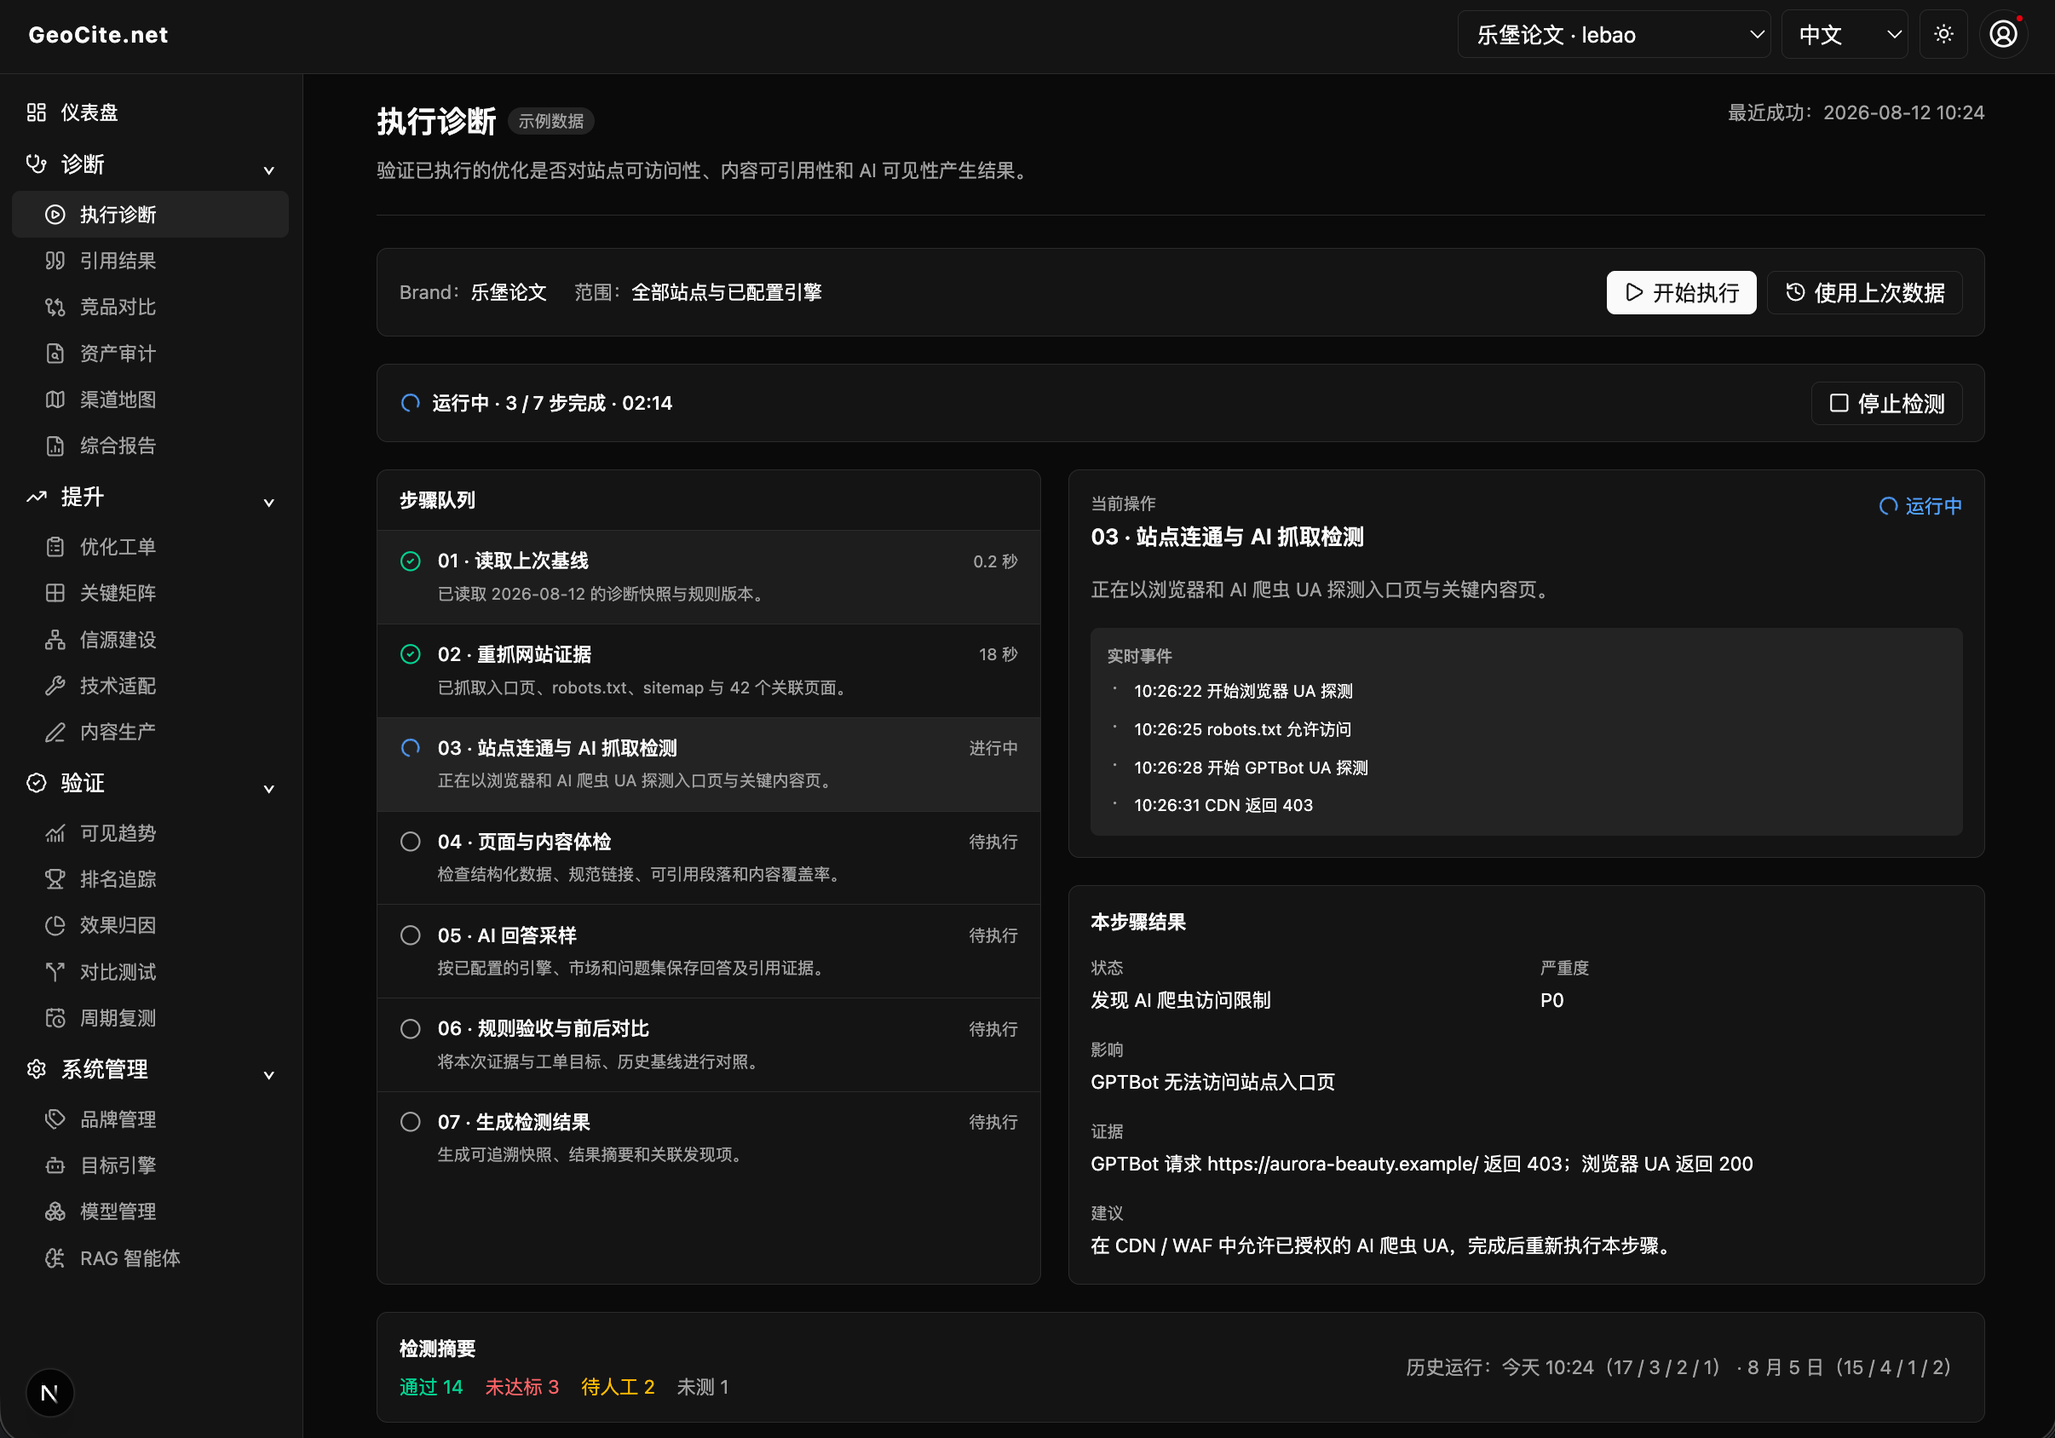
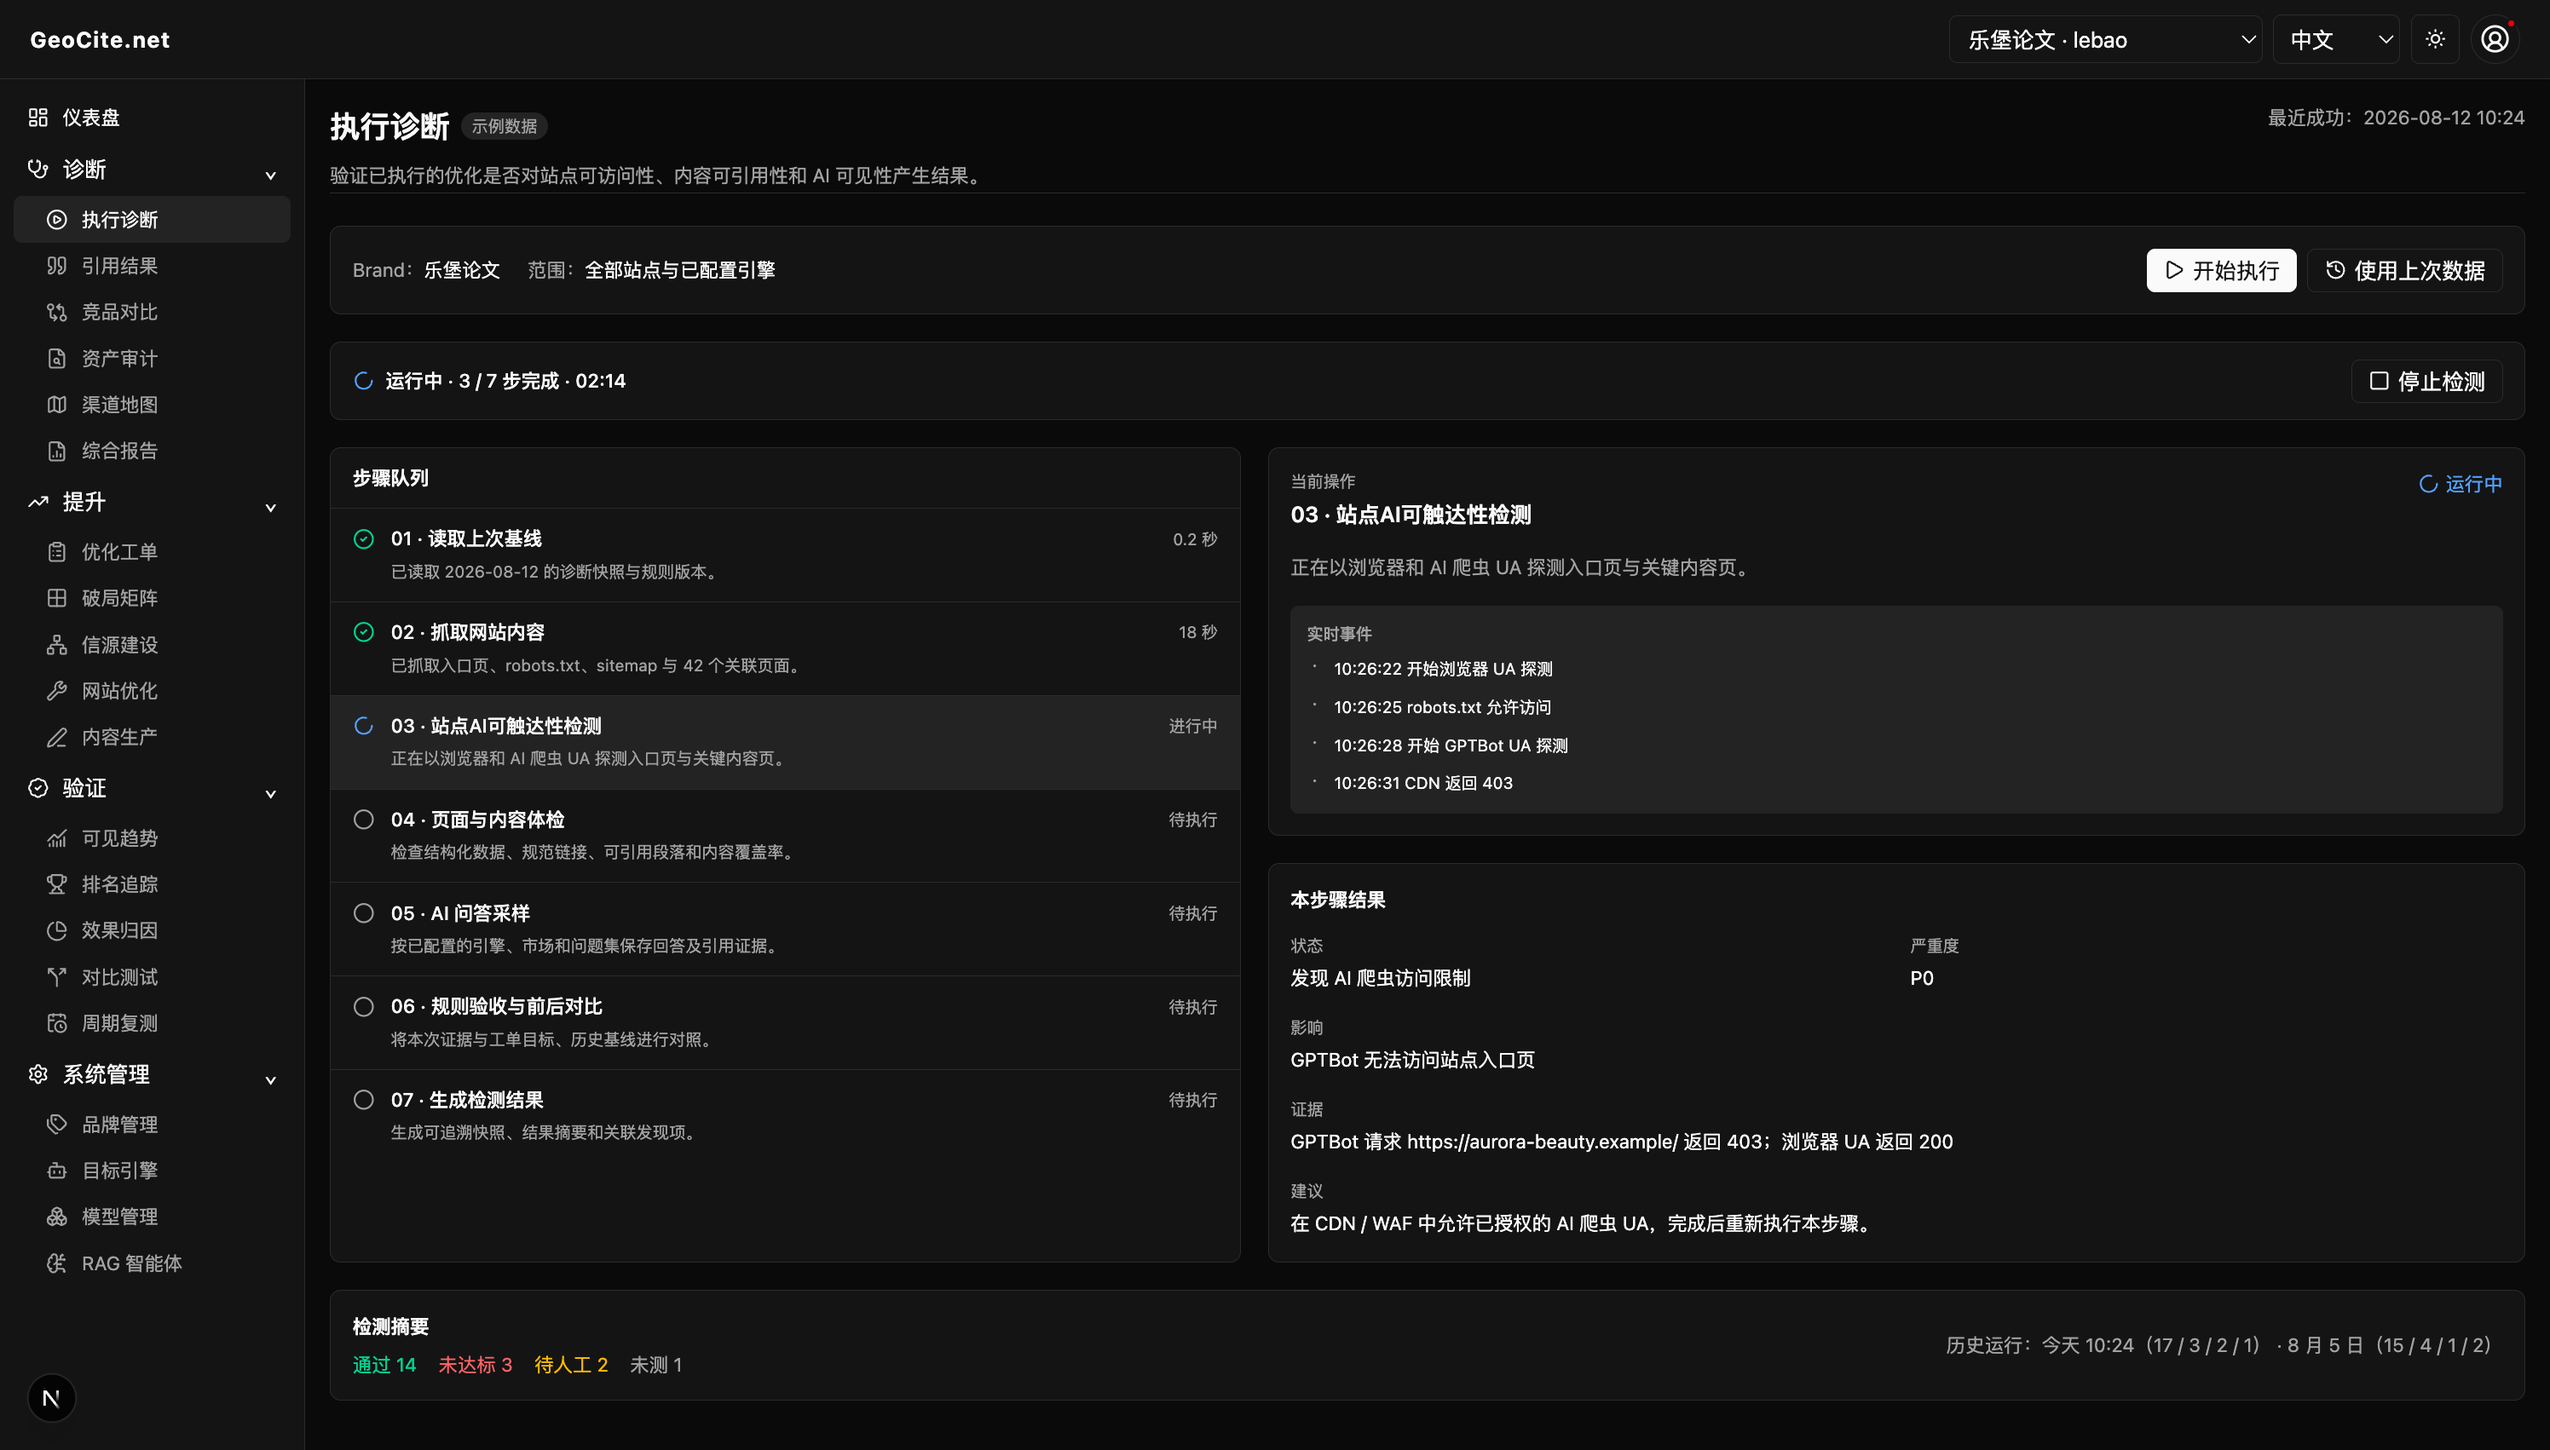
init

diff --git a/ui/src/components/diagnosis/execution-diagnosis-page.tsx b/ui/src/components/diagnosis/execution-diagnosis-page.tsx
@@ -35,8 +35,8 @@ export function ExecutionDiagnosisPage(): React.JSX.Element {
   const stopRun = () => { setRunning(false); setSteps((current) => current.map((step) => step.status === 'running' ? {...step, status: 'cancelled', duration: t('stopped'), detail: t('stoppedDetail')} : step)); };
   const usePreviousSnapshot = () => { setRunning(false); setSelectedId(7); setSteps((current) => current.map((step) => step.status === 'pending' || step.status === 'running' ? {...step, status: 'succeeded', duration: t('fromSnapshot'), detail: t('snapshotDetail')} : step)); };
 
-  return <section className="mx-auto max-w-[1180px] pb-8">
-    <header className="mb-6 flex flex-col gap-4 border-b border-[var(--border)] pb-5 lg:flex-row lg:items-start lg:justify-between"><div><div className="mb-2 flex items-center gap-2"><h1 className="text-[22px] font-semibold">{t('title')}</h1><span className="rounded-full bg-[var(--muted)] px-2 py-0.5 text-xs text-[var(--muted-foreground)]">{t('sampleData')}</span></div><p className="max-w-2xl text-sm leading-6 text-[var(--muted-foreground)]">{t('description')}</p></div><div className="shrink-0 text-sm text-[var(--muted-foreground)]">{t('lastSuccess')}</div></header>
+  return <section className="pb-8">
+    <header className="mb-6 flex flex-col gap-4 border-b border-[var(--border)] lg:flex-row lg:items-start lg:justify-between"><div><div className="mb-2 flex items-center gap-2"><h1 className="text-[22px] font-semibold">{t('title')}</h1><span className="rounded-full bg-[var(--muted)] px-2 py-0.5 text-xs text-[var(--muted-foreground)]">{t('sampleData')}</span></div><p className="text-sm leading-6 text-[var(--muted-foreground)]">{t('description')}</p></div><div className="shrink-0 text-sm text-[var(--muted-foreground)]">{t('lastSuccess')}</div></header>
     <div className="mb-5 flex flex-col gap-3 rounded-lg border border-[var(--border)] bg-[var(--card)] p-4 sm:flex-row sm:items-center sm:justify-between"><div className="flex flex-wrap items-center gap-x-5 gap-y-2 text-sm"><span><span className="text-[var(--muted-foreground)]">{t('brandLabel')}</span>{t('brand')}</span><span><span className="text-[var(--muted-foreground)]">{t('scopeLabel')}</span>{t('scope')}</span></div><div className="flex flex-wrap gap-2"><Button size="sm" onClick={startRun}><Icon icon="lucide:play" aria-hidden="true" />{t('start')}</Button><Button size="sm" variant="outline" onClick={usePreviousSnapshot}><Icon icon="lucide:history" aria-hidden="true" />{t('usePrevious')}</Button></div></div>
     <div className="mb-5 flex flex-col gap-3 rounded-lg border border-[var(--border)] bg-[var(--card)] px-4 py-3 sm:flex-row sm:items-center sm:justify-between"><div className="flex items-center gap-2 text-sm"><Icon icon={running ? 'lucide:loader-circle' : 'lucide:circle-check'} className={`size-4 ${running ? 'animate-spin text-blue-600 dark:text-blue-400' : 'text-emerald-600 dark:text-emerald-400'}`} aria-hidden="true" /><span className="font-medium">{running ? t('runProgress', {completed: completedCount}) : t('stoppedRun')}</span></div>{running && <Button size="sm" variant="outline" onClick={stopRun}><Icon icon="lucide:square" aria-hidden="true" />{t('stop')}</Button>}</div>
     <div className="grid gap-5 lg:grid-cols-[minmax(0,0.42fr)_minmax(0,0.58fr)]"><div className="overflow-hidden rounded-lg border border-[var(--border)] bg-[var(--card)]"><div className="border-b border-[var(--border)] px-4 py-3"><h2 className="text-sm font-semibold">{t('stepQueue')}</h2></div><ol className="divide-y divide-[var(--border)]">{steps.map((step) => { const meta = statusMeta[step.status]; const selected = step.id === selectedId; return <li key={step.id}><button type="button" onClick={() => setSelectedId(step.id)} className={`flex w-full items-start gap-3 px-4 py-3 text-left transition-colors ${selected ? 'bg-[var(--muted)]' : 'hover:bg-[var(--muted)]/60'}`}><Icon className={`mt-0.5 size-4 shrink-0 ${meta.className} ${step.status === 'running' ? 'animate-spin' : ''}`} icon={meta.icon} aria-hidden="true" /><span className="min-w-0 flex-1"><span className="flex items-center justify-between gap-3"><span className="text-sm font-medium">{String(step.id).padStart(2, '0')} · {step.title}</span><span className="shrink-0 text-xs text-[var(--muted-foreground)]">{step.duration}</span></span><span className="mt-1 block text-xs leading-5 text-[var(--muted-foreground)]">{step.detail}</span></span></button></li>; })}</ol></div>

diff --git a/ui/src/components/app-shell.tsx b/ui/src/components/app-shell.tsx
@@ -25,7 +25,7 @@ export function AppShell({ children }: { children: ReactNode }) {
   useEffect(() => { fetch(`${api}/brands`).then((r) => r.ok ? r.json() : Promise.reject()).then((x) => setBrands(x.items ?? [])).catch(() => setBrands([])); }, []);
   const selected = brands.find((x) => x.isDefault)?.id ?? '';
   const select = async (id: number) => { const response = await fetch(`${api}/brands/${id}/default`, { method: 'PATCH' }); if (response.ok) setBrands(brands.map((x) => ({ ...x, isDefault: x.id === id }))); };
-  return <div className="grid h-screen grid-rows-[auto_minmax(0,1fr)] overflow-hidden bg-[var(--background)] text-[var(--foreground)]"><header className="flex h-[58px] items-center justify-between border-b border-[var(--border)] bg-[var(--card)] px-[22px] shadow-sm"><Link href="/dashboard" className="font-bold tracking-[.06em]">{t('appName')}</Link><div className="flex items-center gap-2"><select aria-label={t('brandLabel')} className="min-w-[230px] rounded-md border border-[var(--border)] bg-[var(--card)] px-2.5 py-[7px] text-[var(--foreground)]" value={selected} onChange={(e) => void select(Number(e.target.value))}><option value="">{brands.length ? t('chooseBrand') : t('noBrands')}</option>{brands.map((brand) => <option key={brand.id} value={brand.id}>{brand.name} · {brand.code}</option>)}</select><select aria-label={t('language')} className="h-9 rounded-md border border-[var(--border)] bg-[var(--card)] px-2 text-sm" value={locale} onChange={(event) => router.replace(pathname, {locale: event.target.value as typeof routing.locales[number]})}><option value="zh">{t('chinese')}</option><option value="en">{t('english')}</option></select><ThemeToggle /><UserMenu /></div></header><div className="grid min-h-0 grid-cols-[224px_minmax(0,1fr)] overflow-hidden"><aside className="scroll-area scrollbar-hide min-h-0 overflow-y-auto border-r border-[var(--border)] bg-[var(--card)] p-2.5">{navigationTree.map((node) => <NavigationNodeView key={node.key} node={node} pathname={pathname} open={open[node.key] ?? false} onToggle={() => setOpen({ ...open, [node.key]: !open[node.key] })} />)}</aside><main className="scroll-area scrollbar-hide min-h-0 w-full max-w-[1400px] overflow-y-auto p-[18px]">{children}</main></div></div>;
+  return <div className="grid h-screen grid-rows-[auto_minmax(0,1fr)] overflow-hidden bg-[var(--background)] text-[var(--foreground)]"><header className="flex h-[58px] items-center justify-between border-b border-[var(--border)] bg-[var(--card)] px-[22px] shadow-sm"><Link href="/dashboard" className="font-bold tracking-[.06em]">{t('appName')}</Link><div className="flex items-center gap-2"><select aria-label={t('brandLabel')} className="min-w-[230px] rounded-md border border-[var(--border)] bg-[var(--card)] px-2.5 py-[7px] text-[var(--foreground)]" value={selected} onChange={(e) => void select(Number(e.target.value))}><option value="">{brands.length ? t('chooseBrand') : t('noBrands')}</option>{brands.map((brand) => <option key={brand.id} value={brand.id}>{brand.name} · {brand.code}</option>)}</select><select aria-label={t('language')} className="h-9 rounded-md border border-[var(--border)] bg-[var(--card)] px-2 text-sm" value={locale} onChange={(event) => router.replace(pathname, {locale: event.target.value as typeof routing.locales[number]})}><option value="zh">{t('chinese')}</option><option value="en">{t('english')}</option></select><ThemeToggle /><UserMenu /></div></header><div className="grid min-h-0 grid-cols-[224px_minmax(0,1fr)] overflow-hidden"><aside className="scroll-area scrollbar-hide min-h-0 overflow-y-auto border-r border-[var(--border)] bg-[var(--card)] p-2.5">{navigationTree.map((node) => <NavigationNodeView key={node.key} node={node} pathname={pathname} open={open[node.key] ?? false} onToggle={() => setOpen({ ...open, [node.key]: !open[node.key] })} />)}</aside><main className="scroll-area scrollbar-hide min-h-0 w-full overflow-y-auto p-[18px]">{children}</main></div></div>;
 }
 
 function NavigationNodeView({ node, pathname, open, onToggle }: { node: NavigationNode; pathname: string; open: boolean; onToggle: () => void }) {
